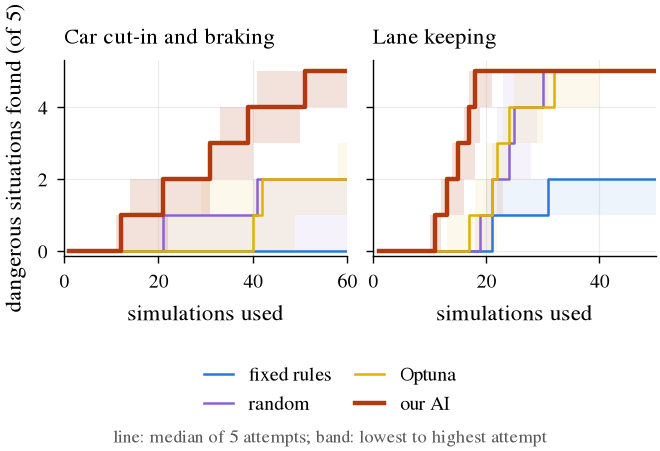
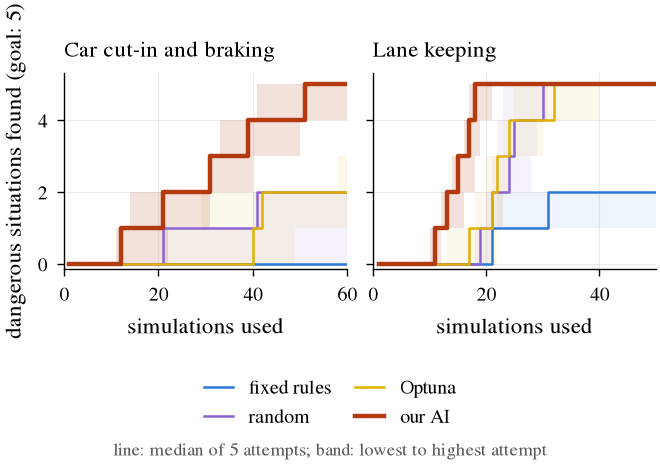
Slide Fig. 4: dangerous situations found toward a goal of 5, not out of a fixed 5

diff --git a/harness/paper_figures.py b/harness/paper_figures.py
@@ -79,7 +79,7 @@ SLIDE_WORDS = {
     "name": "slide_discovery",
     "labels": {**PAPER_LABEL, "rules": "fixed rules", "random_confirm": "random",
                "optuna_confirm": "Optuna", "llm_v2": "our AI"},
-    "ylabel": "dangerous situations found (of 5)",
+    "ylabel": "dangerous situations found (goal: 5)",
     "xlabel": "simulations used",
 }
 # Fig. 4: the planned comparisons only.
